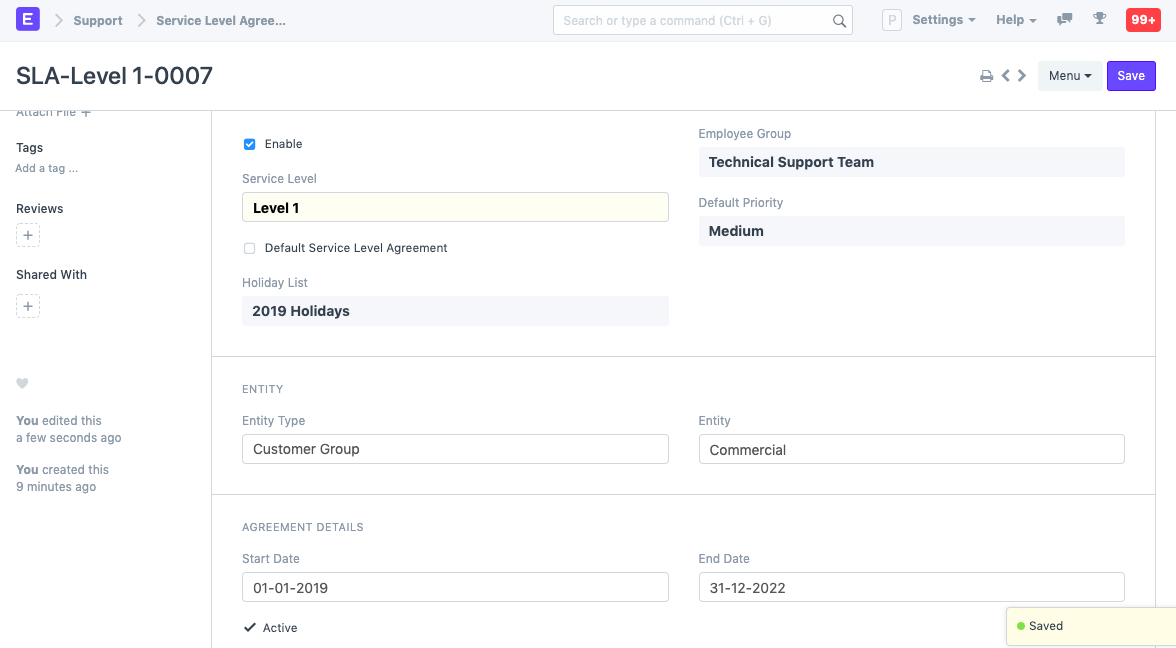
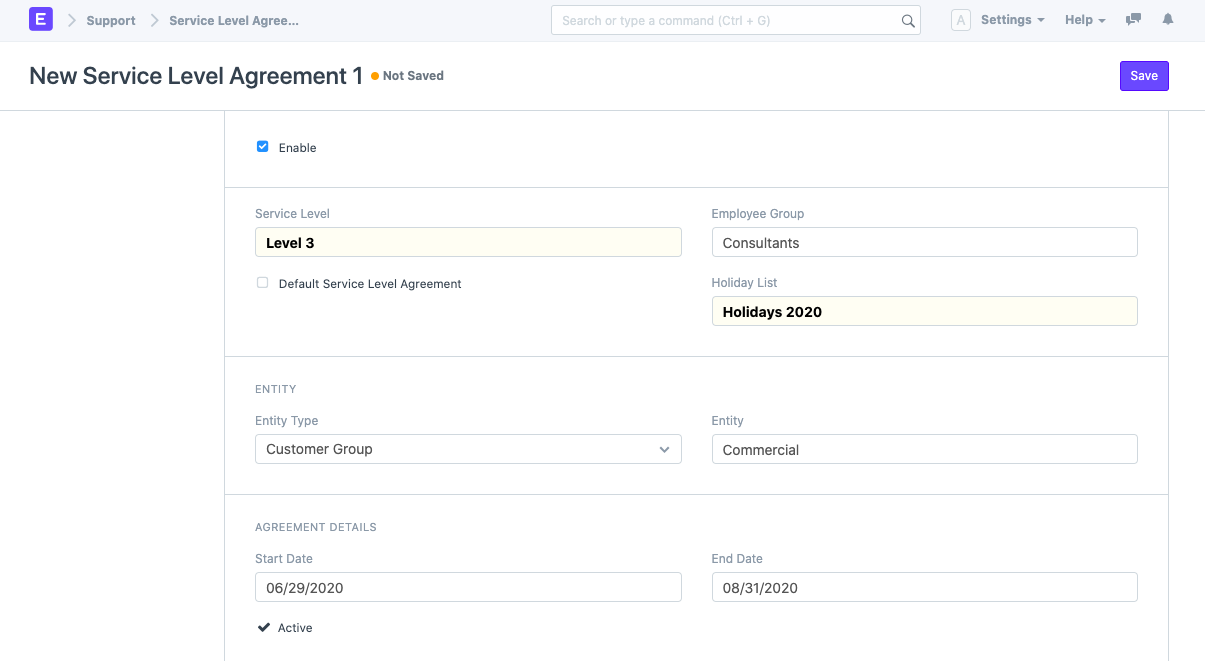
docs: SLA Enhancements

diff --git a/erpnext_documentation/www/docs/user/manual/en/support/service-level-agreement.md b/erpnext_documentation/www/docs/user/manual/en/support/service-level-agreement.md
@@ -9,7 +9,10 @@ To access the Service Level Agreement list, go to:
 > Home > Support > Service Level Agreement > Service Level Agreement
 
 ## 1.Prerequisites
-* [Service Level](/docs/user/manual/en/support/service-level)
+
+Before creating and using a Service Level Agreement, it is advised that you create/update the following first:
+
+* [Holiday List](/docs/user/manual/en/human-resources/holiday-list)
 
 * Enable **Track Service Level Agreement** in Support Settings
 
@@ -17,13 +20,19 @@ To access the Service Level Agreement list, go to:
 
 ## 2. How to Create a Service Level Agreement
 1. Go to the Service Level Agreement list, click on New.
-1. Select the Service Level. This will fetch the Employee Group the SLA applies to, the default priority, and the Holiday list the SLA is excluded from.
+1. Enter a name for the Service Level.
+1. Select an Employee group, which will handle a particular Service Level.
+1. Set a Holiday List. Service Level Agreement won't be applied in the days mentioned in the Holiday List.
 1. 'Enable' determines if a Service Level Agreement is enabled or disabled.
 1. Ticking 'Default Service Level Agreement' will apply this SLA to a customer if they don't have a particular SLA assigned to them.
 1. Entity Type: Service Level Agreements can be assigned to a Customer/Customer Group/Territory enabling you to apply Service Level Agreement based on these factors.
 1. Entity: Select the specific Customer/Customer Group/Territory.
 1. Start / End Date: Defines the validity of the agreement.
-1. Priorities and Support days are fetched as set in the Service Level. These values can be changed if needed.
+1. Priorities: You can set multiple Issue Priorities and their Time to Respond and Resolve (in hours and mins).
+    <img class="screenshot" alt="Service Level" src="{{docs_base_url}}/assets/img/support/priorities.png">
+1. Default Priority: Default Priority selected in Priorities table that will be applied in the Service Level Agreement.
+1. Support Hours: Contains the Days of the week on which Support is provided. Has a Start Time and End Time of the Working day.
+    <img class="screenshot" alt="Service Level" src="{{docs_base_url}}/assets/img/support/sla.png">
 1. Save.
 
     ![SLA](/docs/assets/img/support/sla.png)
@@ -35,7 +44,7 @@ Once an SLA is saved, it'll be applied to Issues raised by Customers/Territories
     ![SLA in Issue](/docs/assets/img/support/sla-issue.png)
 
 ### 3.2 Resetting an SLA
-An SLA can also be reset until the time does not fail. For example, if the SLA is 3 days, you can reset the SLA only within 3 days of the Issue being created. After that, the Service Level will display failed. 
+An SLA can also be reset until the time does not fail. For example, if the SLA is 3 days, you can reset the SLA only within 3 days of the Issue being created. After that, the Service Level will display failed.
     ![SLA Issue](/docs/assets/img/support/reset-sla.gif)
 
 ### 3.3 Time respond / resolve in Issues
@@ -43,3 +52,15 @@ The time to respond to an Issue and the time to resolve will be shown:
     ![SLA in Issue](/docs/assets/img/support/sla-in-issue.png)
 
 These times are based on the timelines set in the 'Priority' field in the Service Level's Priorities table.
+
+
+### 3.4 Pause SLA on Statuses
+From version 13 onwards, ERPNext allows you to pause SLA on issues when you are waiting for an event to happen. You can do this by selecting a status that is configured in this "Pause SLA On" table.
+
+* Set the statuses on which you want to pause SLA in the SLA document. You can also add custom statuses here.
+    <img class="screenshot" alt="Service Level" src="{{docs_base_url}}/assets/img/support/pause-sla.png">
+* When the status is changed to any of the above, resolution and response fields are unset and the dashboard indicators change to:
+    <img class="screenshot" alt="Service Level" src="{{docs_base_url}}/assets/img/support/hold-indicator.png">
+* When the status of the issue changes back to a non-hold status (which is not configured in the "Pause SLA On" table), the **Total Hold time** field will be set in your Issue document.
+    <img class="screenshot" alt="Service Level" src="{{docs_base_url}}/assets/img/support/total-hold-time.png">
+The Response and Resolution time will be recalculated by adding the hold time, thereby restarting your SLA timers.
